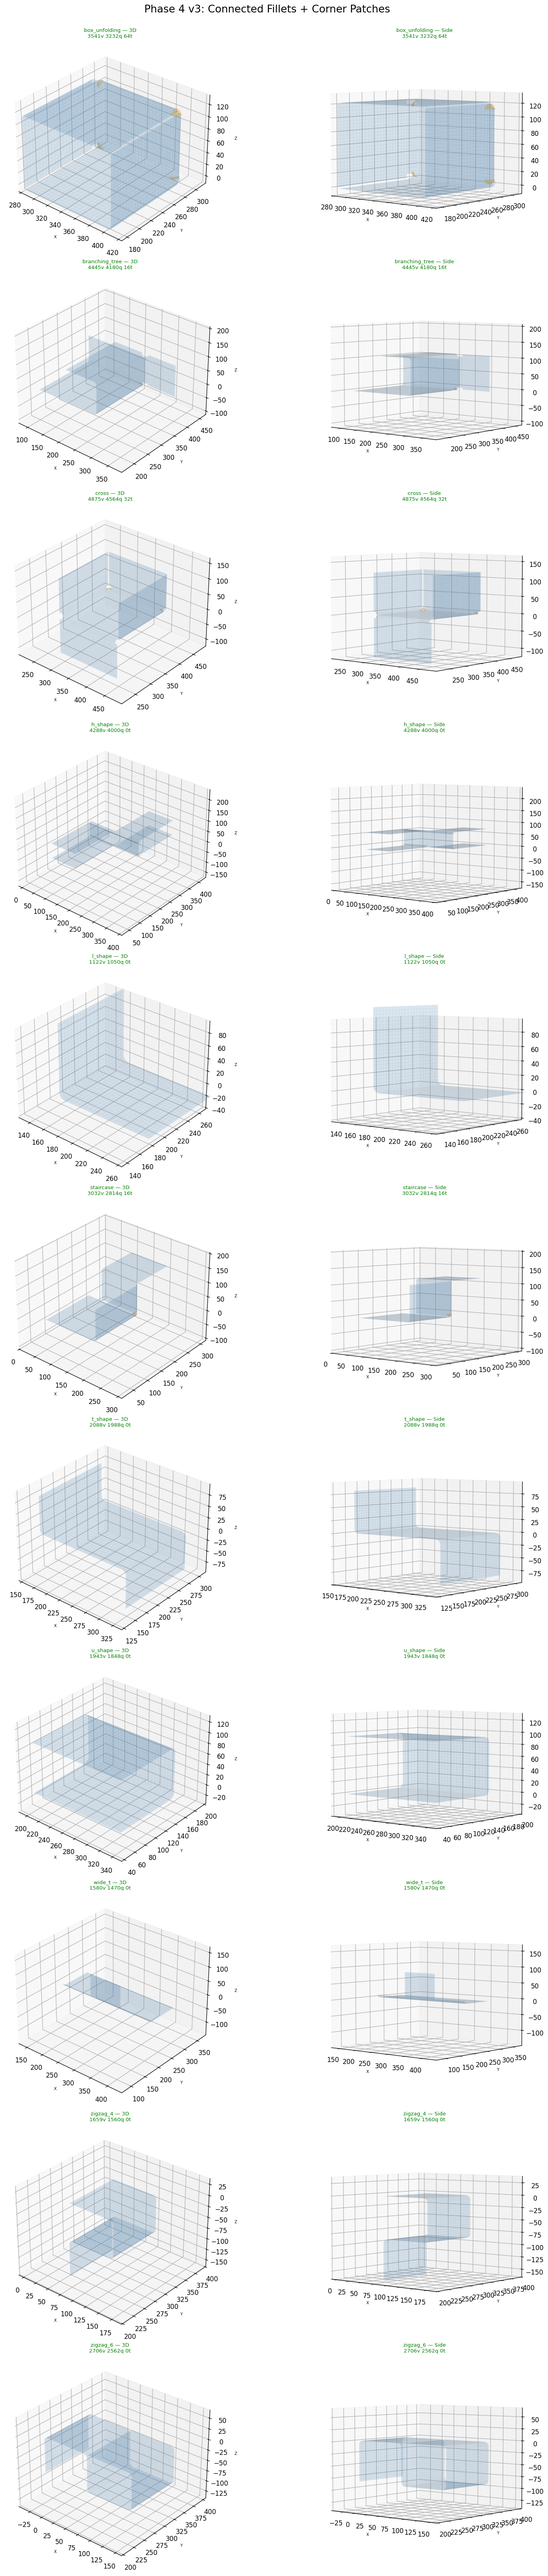
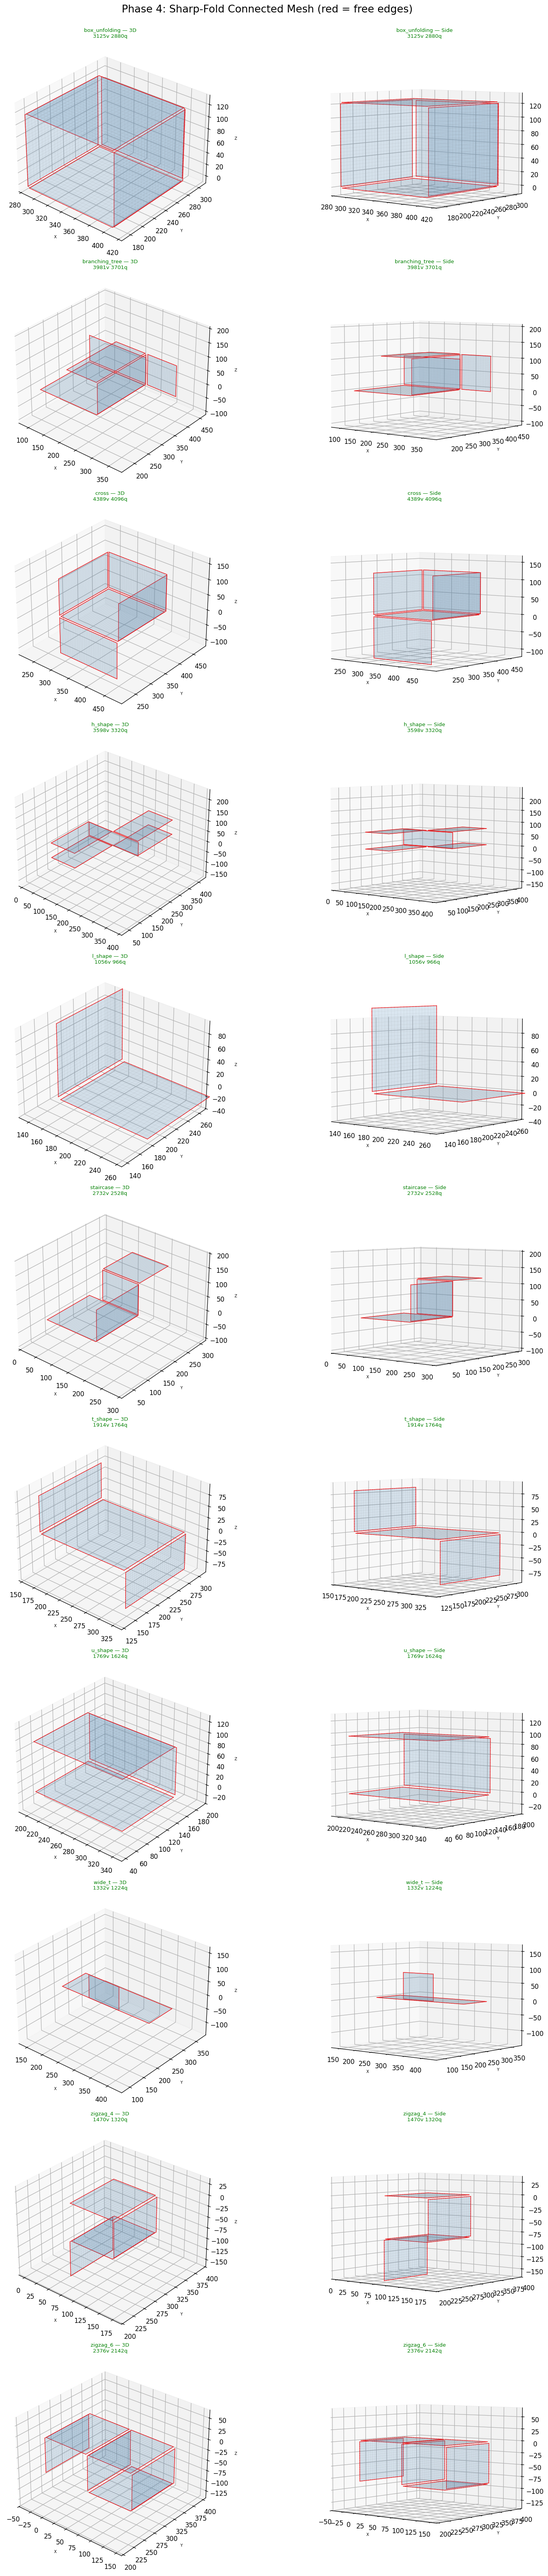
Sharp fold rewrite: phase 3-5 — 2026-04-23 KST

diff --git a/README.md b/README.md
@@ -6,45 +6,25 @@ This repo is used to share result images from Claude Code.
 
 ---
 
-# Origami-Gemini-Gen — Full Pipeline Results (2026-04-22 23:58 KST)
+# Origami-Gemini-Gen — Sharp Fold Rewrite (2026-04-23 KST)
 
-## Phase 0: Test Image Generator
-11 diverse 전개도 (unfolding diagram) test cases generated programmatically.
-![phase0_overview](phase0_overview.png)
+**Changes:** Removed fillets, corner patches, stitcher. Panels snap together at fold edges. Sharp 90° folds with shared vertices.
 
-## Phase 1: Image Parser
-Panel extraction, fold line detection (red=+z, blue=-z), yellow region segmentation.
-![phase1_results](phase1_results.png)
-
-## Phase 2: Topology Builder
-BFS fold tree from panel adjacency graph. Root = largest panel.
-![phase2_results](phase2_results.png)
-
-## Phase 3: 3D Folder
-Cascading 90° rotations around fold axes. Panels trimmed by fillet radius.
-![phase3_results](phase3_results.png)
-
-## Phase 4: Mesh Generator
-Structured quad grids + quarter-cylinder fillets + spherical corner patches. All 11 cases PASS.
+## Phase 4: Mesh Generator (rewritten)
+Structured quad grids per panel. Shared vertices at fold edges via tight-epsilon weld. No fillets, no tris. Red = free edges.
 ![phase4_results](phase4_results.png)
 
-### L-Shape Detail (3D + Side View)
-![phase4_lshape](phase4_lshape.png)
-
-### Multi-Case Detail
-![phase4_multi](phase4_multi.png)
-
-## Phase 5: Stitcher
-Proximity-based free-edge welding + global vertex dedup. Red = free edges.
+## Phase 5: Free Edge QA (rewritten — plot only)
+No stitching. Just visualize free edges as red lines for QA.
 ![phase5_results](phase5_results.png)
 
-### L-Shape Before vs After
+### L-Shape (3D + Side)
 ![phase5_l_shape](phase5_l_shape.png)
 
-### T-Shape Before vs After
+### T-Shape (3D + Side)
 ![phase5_t_shape](phase5_t_shape.png)
 
-### Cross Before vs After
+### Cross (3D + Side)
 ![phase5_cross](phase5_cross.png)
 
 ## Phase 6: Bump & Cut
